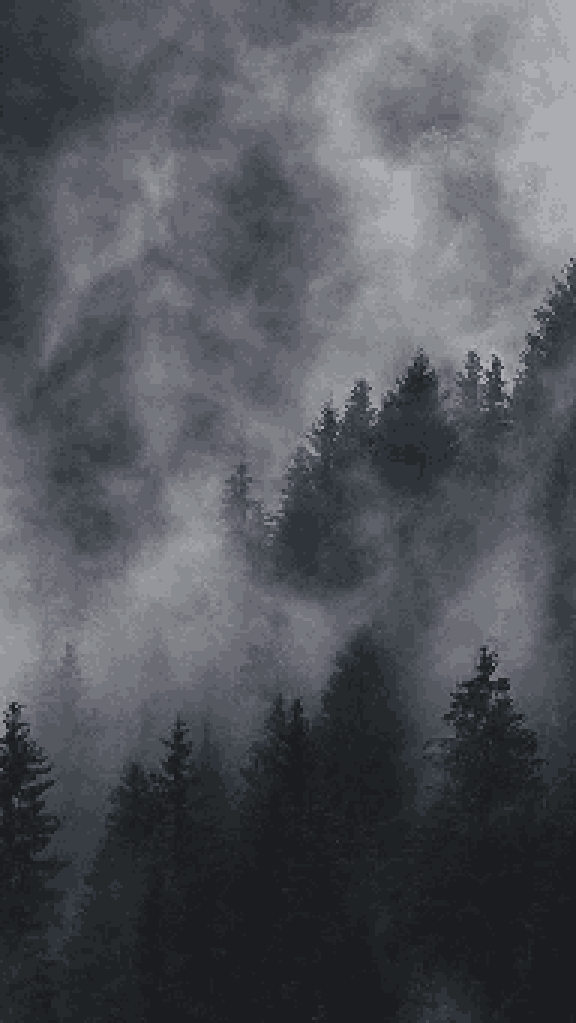
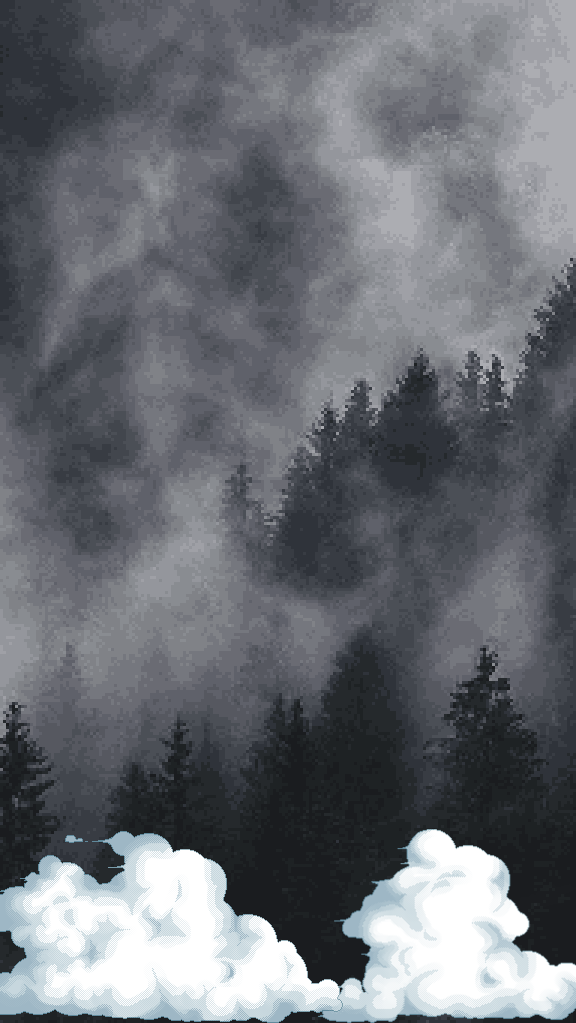
bg_loop&king_hitting_head

Changed region(s): [[0.0, 0.7879, 1.0, 1.0]]

diff --git a/SuperJump/game.py b/SuperJump/game.py
@@ -27,7 +27,7 @@ class Game():
         for i in range(NUM_BG_IMGS):
             self.bg_imgs.append(loadImage(PATH + "/images/bg" + str(i) + ".png"))
 
-        self.y_position = - (self.bg_imgs[0].height - RESY)
+        self.y_position = [- (self.bg_imgs[0].height - RESY), 0]
 
         # multiple platform creations
         self.realplatforms = []
@@ -123,25 +123,39 @@ class Game():
         6. display the game time
         '''
 
-#         # 0. if the game is over
+        # 0. if the game is over
         # if not self.king.alive:
         #     self.gameover()
         #     return
 
         # 1. display the background
-        self.y_position += self.speed
-        # change to the new background image
-        if self.y_position > 0:
-            self.realplatforms = []
-            self.midplatform = [RESX/2, RESY/2, 150, 50]
-            self.realplatforms.append(Platform(self.midplatform[0], self.midplatform[1], self.midplatform[2], self.midplatform[3]))
-            for single_platform in self.realplatforms:
-                if single_platform.y >= -(self.bg_imgs[self.bg_num].height - RESY):
-                    self.create_one_real_platform()
-            self.king.reborn(self.realplatforms)
+        self.y_position[0] += self.speed * 0.5
+
+        # when the previous image dissapears (only 1 image is displayed)
+        if self.y_position[0] > RESY:
+            self.y_position[0] = self.y_position[1]
+            self.y_position[1] = 0
             self.bg_num = min([self.bg_num + 1, NUM_BG_IMGS - 1])
-            self.y_position = - (self.bg_imgs[self.bg_num].height - RESY)
-        image(self.bg_imgs[self.bg_num], 0, self.y_position, RESX, self.bg_imgs[self.bg_num].height)
+        image(self.bg_imgs[self.bg_num], 0, self.y_position[0], RESX, self.bg_imgs[self.bg_num].height)
+        # when start displaying clouds (2 images are displayed)
+        if -5 <= self.y_position[0] < RESY:
+            second_bg_num = min([self.bg_num + 1, NUM_BG_IMGS - 1])
+            # create second image if not exist
+            if not self.y_position[1]:
+                self.y_position[1] = -1 * (self.bg_imgs[second_bg_num].height)
+                # self.realplatforms = []
+                # self.midplatform = [RESX/2, RESY/2, 150, 50]
+                last = self.realplatforms[-1]
+                self.realplatforms.append(Platform(last.x, last.y, last.w, last.h))
+                # creates list of platforms unitl it reaches the top of the new image
+                for single_platform in self.realplatforms:
+                    if single_platform.y >= self.y_position[1]:
+                        self.create_one_real_platform()
+            self.y_position[1] += self.speed * 0.5
+            print(self.y_position[1])
+            image(self.bg_imgs[second_bg_num], 0, self.y_position[1], RESX, self.bg_imgs[second_bg_num].height)
+
+            # self.king.reborn(self.realplatforms)
 
         # side
         if self.bg_num == 2:

diff --git a/SuperJump/Creature.py b/SuperJump/Creature.py
@@ -38,6 +38,7 @@ class King():
         self.key_handler = {'jump':False, 'right':False, 'left':False}
 
         self.isJumping = False
+        self.isFalling = False
         self.fallImgCounter_right = 9
         self.fallImgCounter_left = 17
     
@@ -69,7 +70,8 @@ class King():
         # platforms = Platforms() <- list of platforms that is displayed in the game now
         for platform in platforms:
 
-            if platform.x in range(RESX * 1/3, RESX * 2/3) and platform.y in range(RESX * 1/3, RESX * 2/3):
+            if platform.y in range(0 , RESY):
+                print(platform.y)
                 self.x_position = platform.x
                 self.y_position = platform.y - platform.h / 2 - self.radius
                 self.platform_now = platform
@@ -184,9 +186,14 @@ class King():
             self.jumpImgCounter_left = 16
             self.img = self.jump_img
             self.jump()
-
         elif self.isJumping:
             self.jump()
+            
+        # preventing king from going out of side boundaries
+        if self.x_position - self.radius < GAMEX_L:
+            self.x_position = GAMEX_L + self.radius
+        if self.x_position + self.radius > GAMEX_R:
+            self.x_position = GAMEX_R - self.radius
 
         # updating a ground
         if not self.onPlatform():
@@ -195,6 +202,22 @@ class King():
         if self.isFalling:
             self.fall()
 
+        # create random platforms
+        for single_platform in platforms:
+            
+            # preventing king from going into the platform images
+            # if king is in platform image
+            if (self.y_position - self.radius < single_platform.y + (single_platform.h / 2)
+            and self.y_position - self.radius > single_platform.y - (single_platform.h / 2)
+            and self.x_position + self.radius > single_platform.x - (single_platform.w / 2)
+            and self.x_position - self.radius < single_platform.x + (single_platform.w / 2)):
+                self.isFalling = True
+                self.isJumping = False
+                self.y_speed = 0
+                self.height = 0
+                self.jump_start = 0
+                print(self.y_position, single_platform.y, single_platform.h / 2, self.radius)
+        
 
     def display(self, platforms):
 

diff --git a/SuperJump/constants.py b/SuperJump/constants.py
@@ -18,12 +18,12 @@ GAMEX_D = RESY * 0.95
 
 MAGMA_H = RESX * 0.02
 
-GAME_SPEED = 2
+GAME_SPEED = 1
 
 HORIZONTAL_MAX = 200
 JUMP_HIGHET = 20
 
 
-NUM_BG_IMGS = 4
+NUM_BG_IMGS = 5
 NUM_IMG_DIV = 1
 NUM_PHASE = 1
